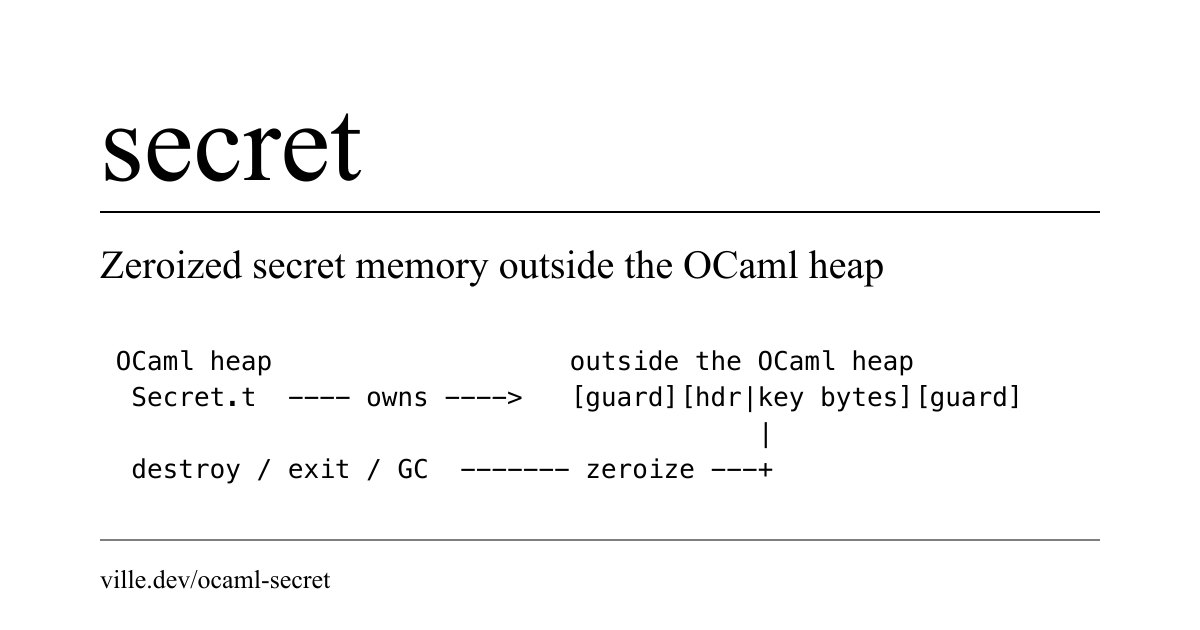
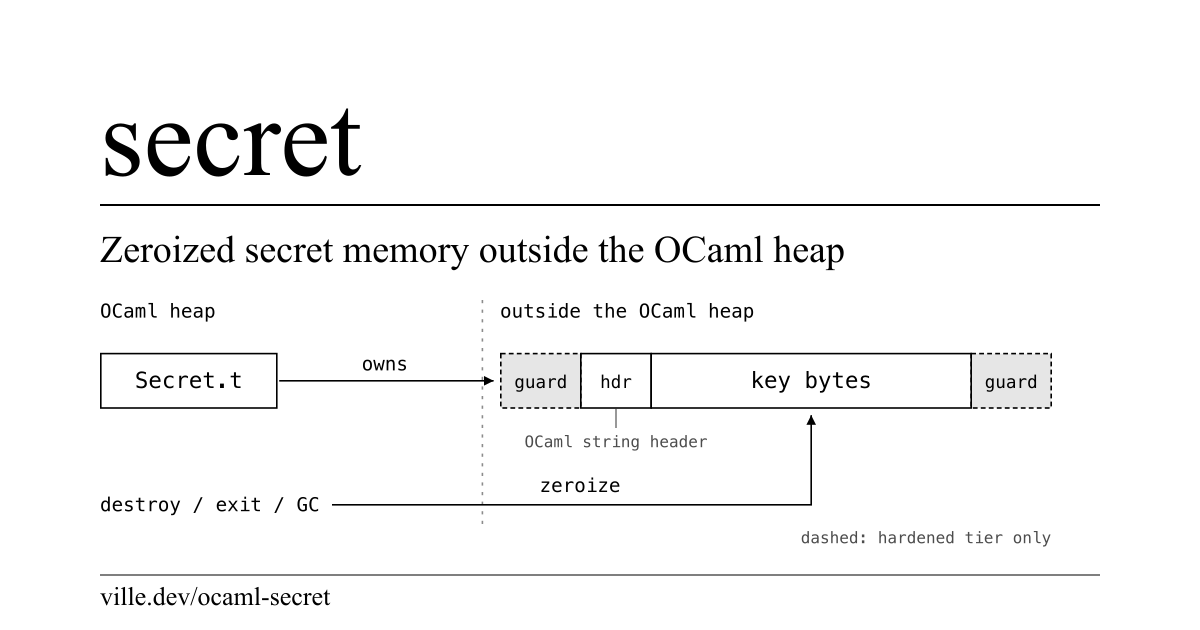
fix: website header

diff --git a/website/index.html b/website/index.html
@@ -40,11 +40,44 @@
     </nav>
 
     <main id="content">
-      <pre class="plain banner" aria-hidden="true">
- OCaml heap                   outside the OCaml heap
-  Secret.t  ---- owns ----&gt;   [guard][hdr|key bytes][guard]
-                                          |
-  destroy / exit / GC  ------- zeroize ---+</pre>
+      <svg class="banner" role="img" viewBox="0 0 610 160" xmlns="http://www.w3.org/2000/svg">
+        <title>A Secret.t handle inside the OCaml heap owns a payload outside it: guard pages around an OCaml string header and the key bytes. Destroy, exit and collection all zeroize the key bytes.</title>
+        <defs>
+          <marker id="secret-arrow" viewBox="0 0 10 10" refX="10" refY="5" markerWidth="6" markerHeight="6" orient="auto">
+            <path d="M 0 0 L 10 5 L 0 10 z" fill="currentColor"/>
+          </marker>
+        </defs>
+        <g font-family="ui-monospace, 'SF Mono', Menlo, Consolas, 'Liberation Mono', monospace" fill="currentColor">
+          <text x="0" y="11" font-size="12">OCaml heap</text>
+          <text x="250" y="11" font-size="12">outside the OCaml heap</text>
+          <line x1="239" y1="0" x2="239" y2="140" stroke="currentColor" stroke-dasharray="2 4" opacity="0.45"/>
+
+          <rect x="0.5" y="33.5" width="110" height="34" fill="none" stroke="currentColor"/>
+          <text x="55.5" y="55" font-size="14" text-anchor="middle">Secret.t</text>
+
+          <text x="178" y="44" font-size="12" text-anchor="middle">owns</text>
+          <line x1="112" y1="50.5" x2="246" y2="50.5" stroke="currentColor" marker-end="url(#secret-arrow)"/>
+
+          <rect x="250.5" y="33.5" width="50" height="34" fill="currentColor" fill-opacity="0.1" stroke="currentColor" stroke-dasharray="3 2"/>
+          <rect x="300.5" y="33.5" width="44" height="34" fill="none" stroke="currentColor"/>
+          <rect x="344.5" y="33.5" width="200" height="34" fill="none" stroke="currentColor"/>
+          <rect x="544.5" y="33.5" width="50" height="34" fill="currentColor" fill-opacity="0.1" stroke="currentColor" stroke-dasharray="3 2"/>
+
+          <text x="275.5" y="55" font-size="11" text-anchor="middle">guard</text>
+          <text x="322.5" y="55" font-size="11" text-anchor="middle">hdr</text>
+          <text x="444.5" y="55" font-size="14" text-anchor="middle">key bytes</text>
+          <text x="569.5" y="55" font-size="11" text-anchor="middle">guard</text>
+
+          <path d="M 322.5 68 L 322.5 80" fill="none" stroke="currentColor" opacity="0.5"/>
+          <text x="322.5" y="92" font-size="10" text-anchor="middle" opacity="0.7">OCaml string header</text>
+
+          <text x="0" y="132" font-size="12">destroy / exit / GC</text>
+          <text x="300" y="120" font-size="12" text-anchor="middle">zeroize</text>
+          <path d="M 145 128 L 444.5 128 L 444.5 72" fill="none" stroke="currentColor" marker-end="url(#secret-arrow)"/>
+
+          <text x="594.5" y="152" font-size="10" text-anchor="end" opacity="0.7">dashed: hardened tier only</text>
+        </g>
+      </svg>
       <h1>secret</h1>
 
       <p>

diff --git a/website/styles.css b/website/styles.css
@@ -84,21 +84,13 @@ pre code {
   font-size: 1em;
 }
 
-pre.plain {
-  border: 0;
-  padding: 0;
-}
-
 .banner {
-  font-size: 0.75em;
-  line-height: 1.15;
-  margin: 0.6em 0 0;
-}
-
-@media (max-width: 480px) {
-  .banner {
-    font-size: 0.56em;
-  }
+  display: block;
+  width: 100%;
+  max-width: 610px;
+  height: auto;
+  margin: 0.9em 0 0.2em;
+  color: #000;
 }
 
 nav.top {
